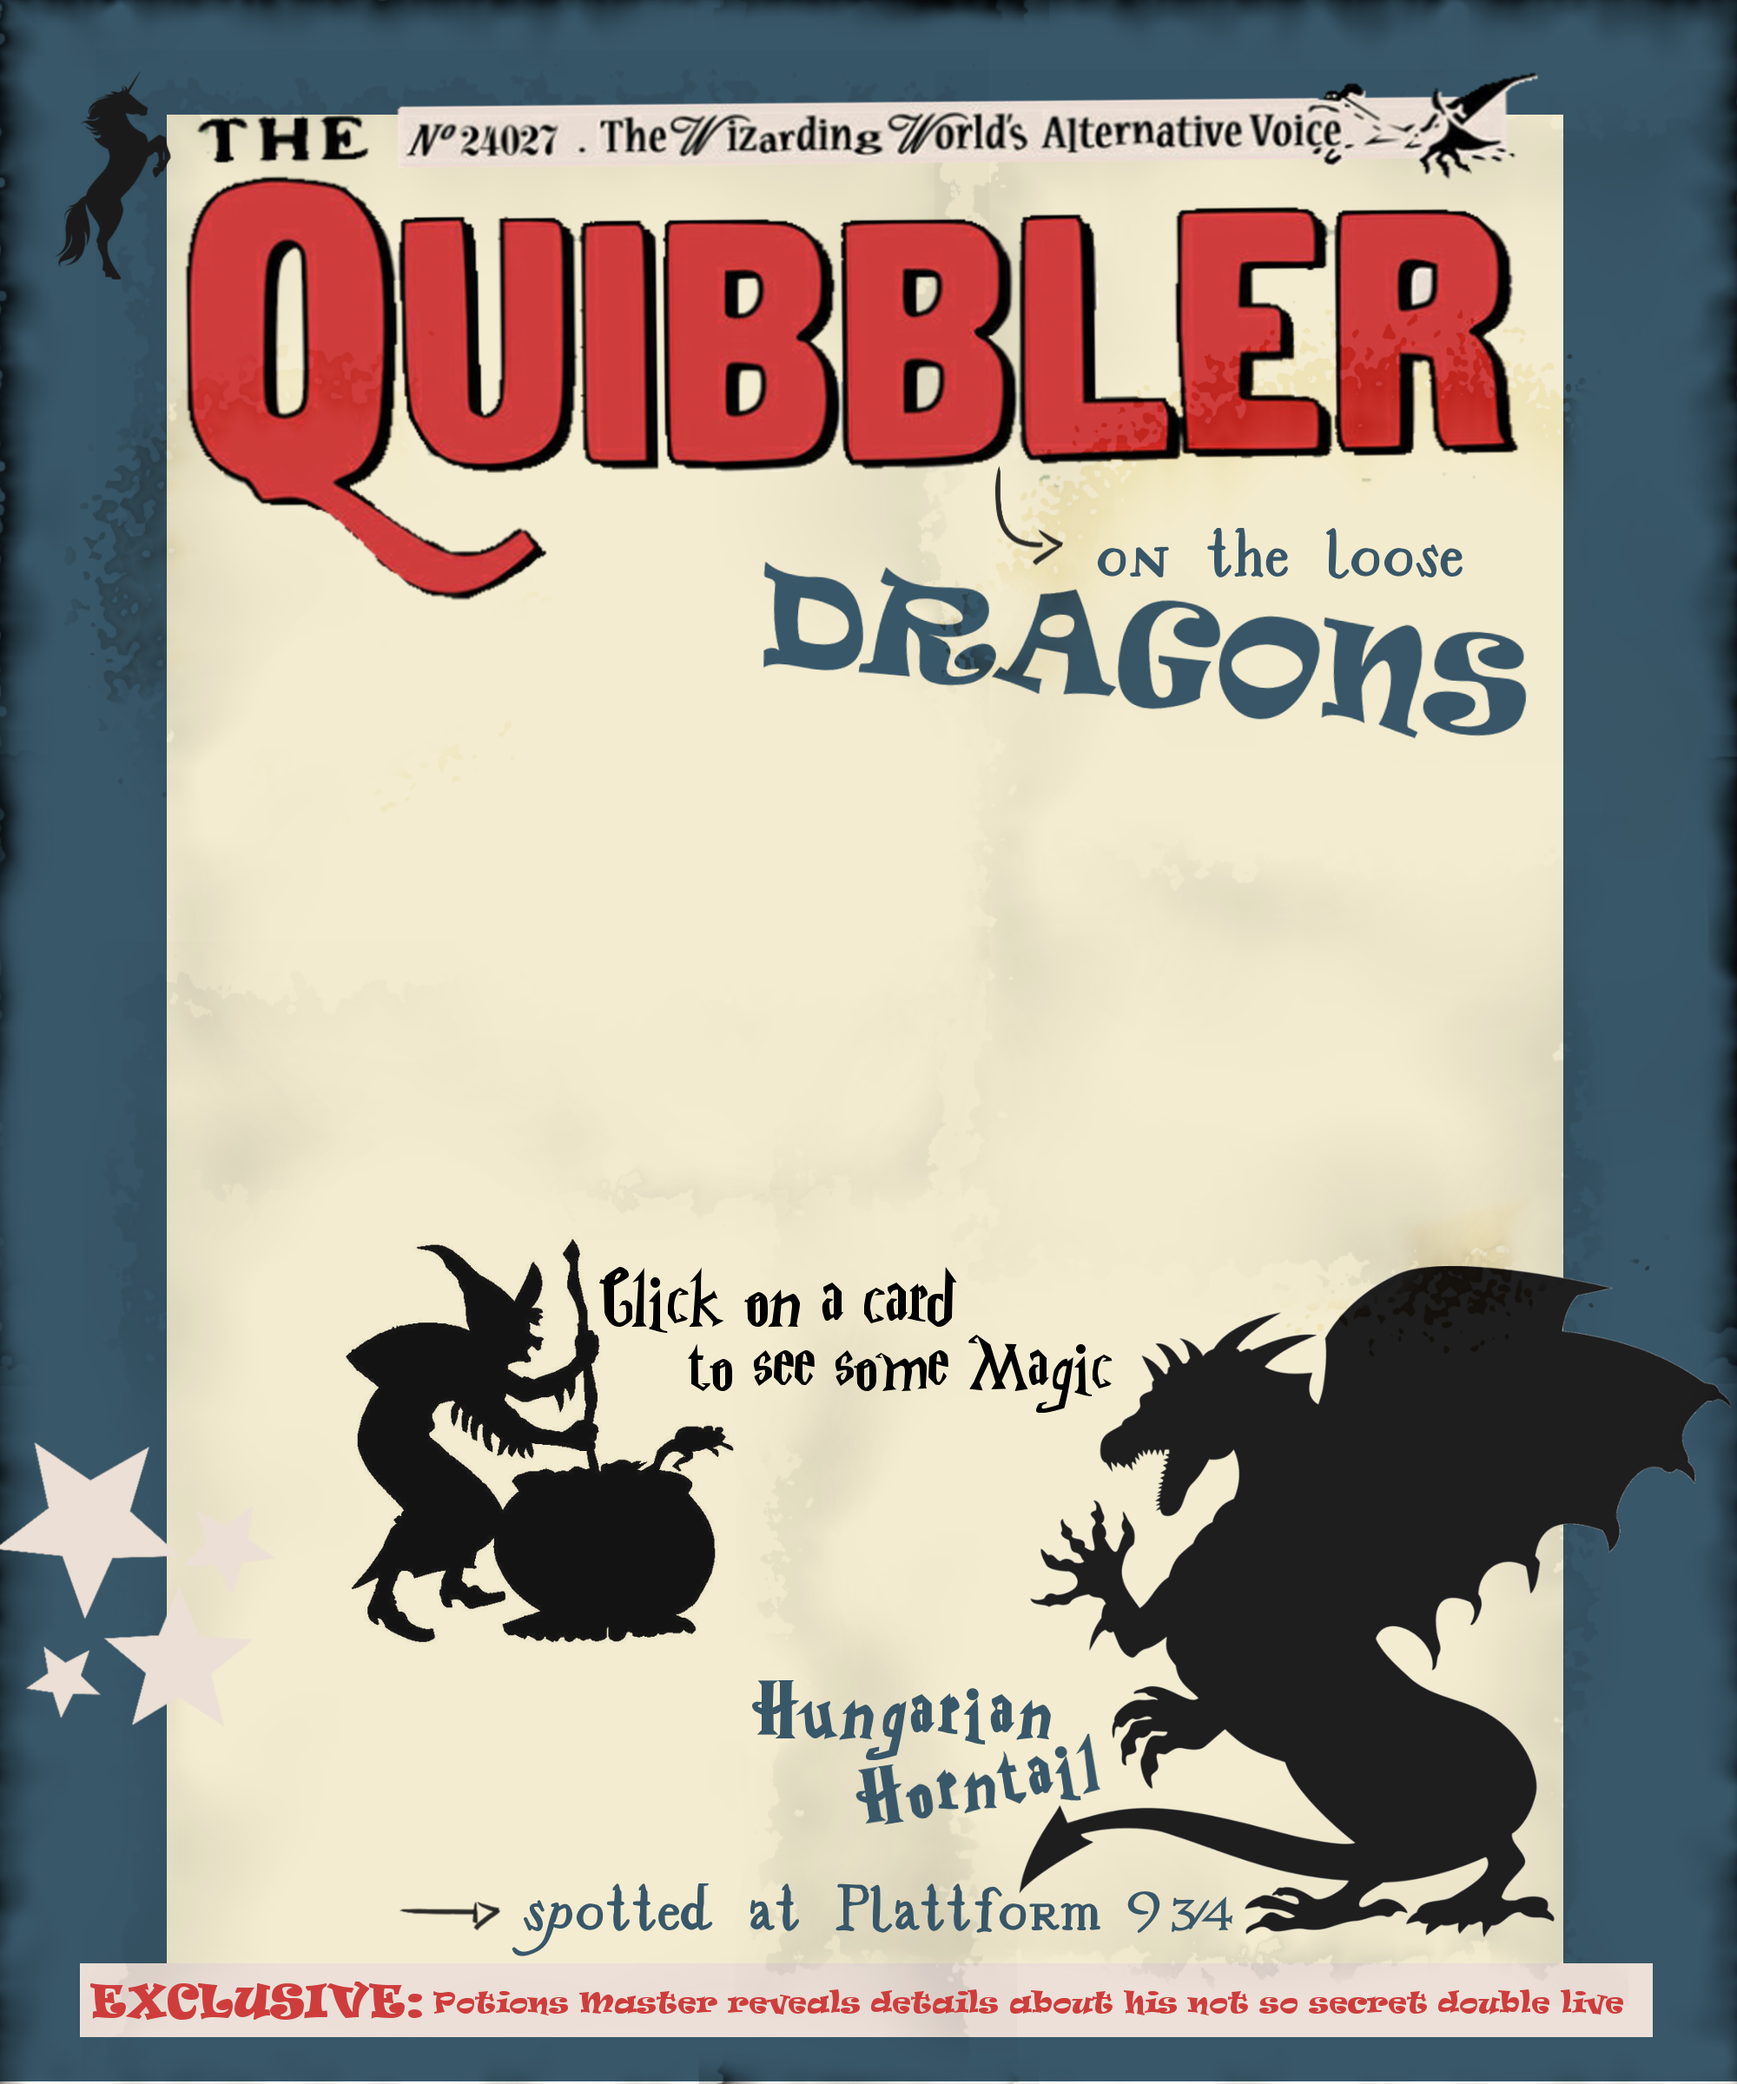
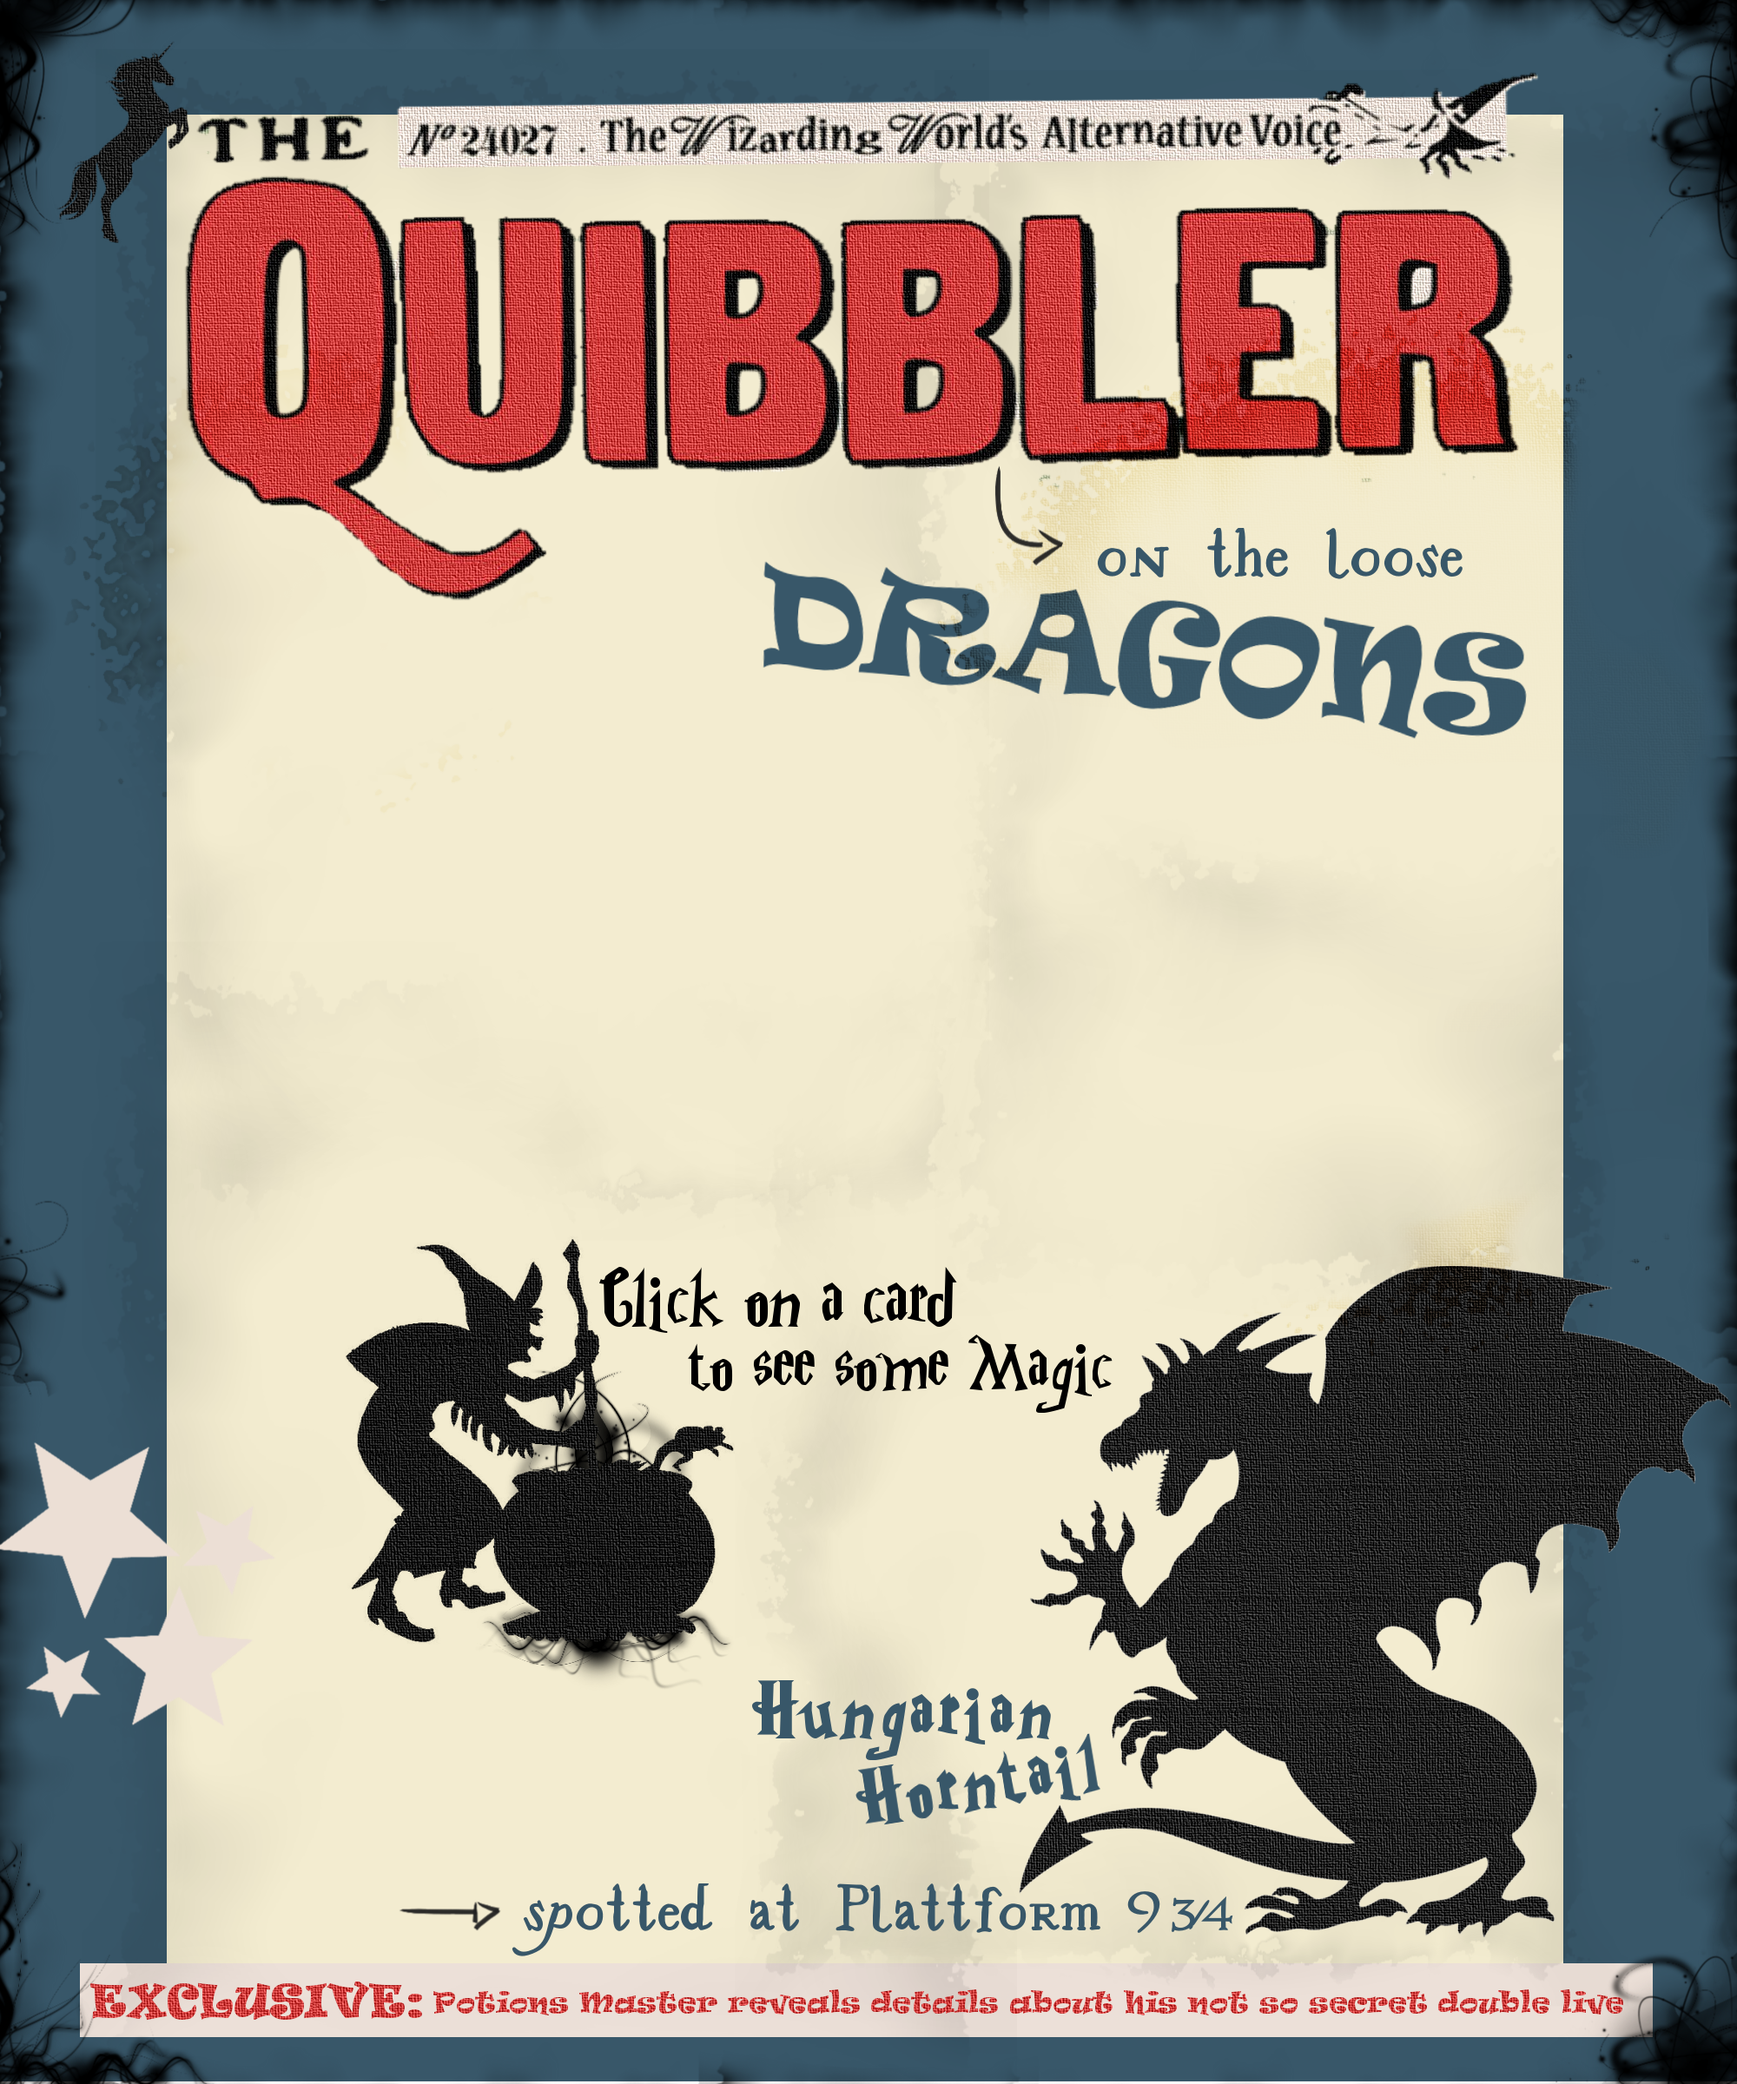
Design überarbeitet
Nochmal n bisschen rumgebastelt an der Frontpage und dem Zeitungshintergrund.

Jetzt wart ich auf den Merge, bevor sonst nix mehr hinhaut ^^

diff --git a/res/css/app.css b/res/css/app.css
@@ -3,7 +3,7 @@ html {
      font-family: 'Fredericka the Great', cursive;
 }
  body {
-     background-image: url("images/quibblerBackground.png");
+     background-image: url("images/quibblerborder.png");
      background-size: 100%;
      width: 1000px;
      height: 1200px;
@@ -19,12 +19,17 @@ html {
      background-size: 100%;
 }
 
- .subhead {
+/*Auf der Welcome Seite passts noch nicht, wird geändert wenn alles gemerged ist*/
+ .navigation {
      border-left: 20%;
-     padding: 12px 0 12px 0;
+     padding-top:  50px;
+     padding-bottom: 5px;
      font-size: 16px;
 }
-}
+
+
+
+
  h1{
      font-family: 'Lovers Quarrel', cursive;
      font-size: 65px;
@@ -49,8 +54,7 @@ html {
 }
 
 #aktuell{
-  
-  border: 3px dotted #00102b;
+   border: 3px dotted #00102b;
   padding: 1.5px;
   opacity: .7;
 }
@@ -63,14 +67,12 @@ html {
  #circle:hover path.fade {
      display: none;
 }
- .quibblerLogo{
-     max-width: 100%;
-     width:20%;
-     height: auto;
-     padding-top: 3%;
-     margin-left: 70%;
-}
- //Newspaper Layout // .collumns {
+
+
+ 
+ //Newspaper Layout // 
+
+ .collumns {
 }
  .collumn {
      font-size: 14px;

diff --git a/inhalt2.html b/inhalt2.html
@@ -18,7 +18,7 @@
    </head>
    <body>
       <header>
-         <div class="subhead">
+         <div class="navigation">
             <nav>
                <a href="index.html">Welcome</a>&nbsp;
                <a href="inhalt1.html">Actions</a>&nbsp;

diff --git a/inhalt3.html b/inhalt3.html
@@ -18,7 +18,7 @@
    </head>
    <body>
       <header>
-         <div class="subhead">
+         <div class="navigation">
             <nav>
                <a href="index.html">Welcome</a>&nbsp;
                <a href="inhalt1.html">Actions</a>&nbsp;

diff --git a/inhalt4.html b/inhalt4.html
@@ -18,7 +18,7 @@
    </head>
    <body>
       <header>
-         <div class="subhead">
+         <div class="navigation">
             <nav>
                <a href="index.html">Welcome</a>&nbsp;
                <a href="inhalt1.html">Actions</a>&nbsp;

diff --git a/index.html b/index.html
@@ -99,7 +99,7 @@
 			</div>
 		</div> -->
 	<header>	
-		<div class="subhead">
+		<div class="navigation">
       <nav>
         <a id="aktuell" href="index.html">Welcome</a>&nbsp;
         <a href="inhalt1.html">Actions</a>&nbsp;

diff --git a/inhalt1.html b/inhalt1.html
@@ -18,7 +18,7 @@
 
 <body>
 	<header>
-		<div class="subhead">
+		<div class="navigation">
       <nav>
         <a href="index.html">Welcome</a>&nbsp;
         <a id="aktuell" href="inhalt1.html">Actions</a>&nbsp;
